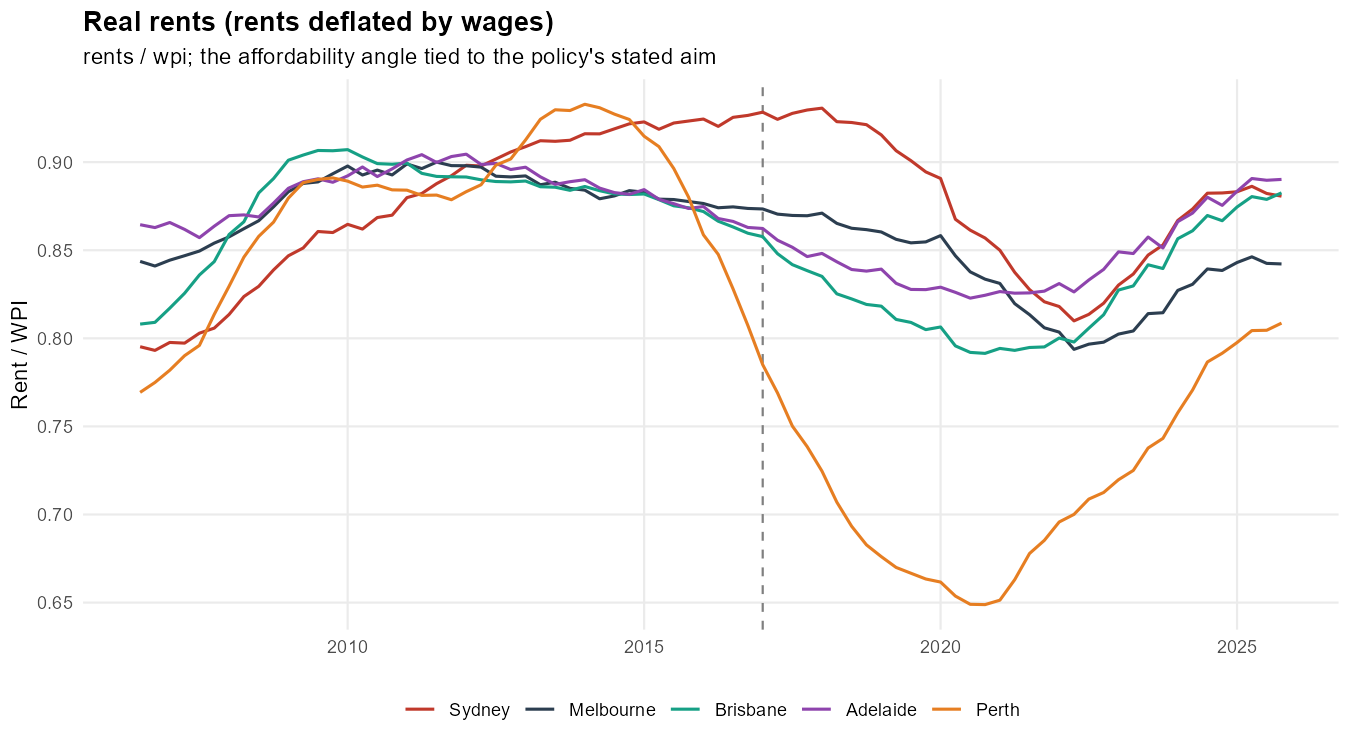
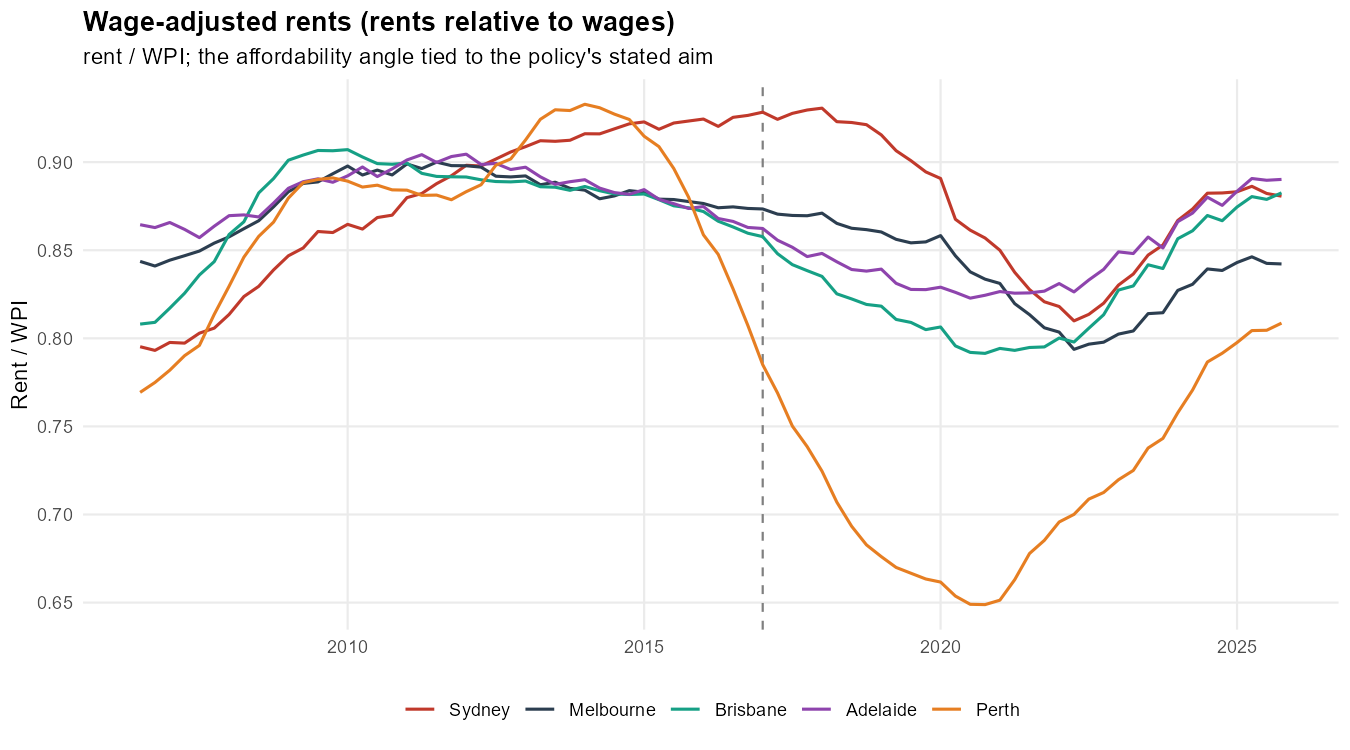
Relabel real rents as wage-adjusted: update Figure 4 title in 03_figures.R, regenerate figure, fix intro wording

Changed region(s): [[0.0622, 0.0, 0.5289, 0.092]]

diff --git a/manuscript/Rental_disconnect.tex b/manuscript/Rental_disconnect.tex
@@ -84,7 +84,7 @@
 \begin{frontmatter}
 
 \title{Credit, Fundamentals, and the Price--Rent Disconnect in
-Australian Housing Markets:
+Australian Housing Markets:\\
 Evidence from Five Capital Cities, 2006--2025}
 %\author[1]{Ainura Tursunalieva\footnote{ORCID: 0000-0003-2784-9031}}
 %\ead{[email redacted]}
@@ -129,8 +129,9 @@ gradually, with prices and rents converging over a three-year horizon.
 
 The decoupling thus reflects differences in transmission speed rather
 than permanent insulation of rents from financial conditions. The
-strengthening of the price--investor-credit channel is evident across
-all five capitals. We interpret the breakdown in the price--rent
+strengthening of the price--investor-credit channel is broad-based in
+the pooled panel rather than concentrated in the most heavily invested
+city. We interpret the breakdown in the price--rent
 relationship as evidence that the two markets are increasingly governed
 by different forces: rents by local fundamentals, prices by investor
 finance. Our contribution is to document this separation rather than to
@@ -149,7 +150,7 @@ Financialization \sep Price--rent disconnect \sep Investor credit
 \section{Introduction}
 \label{sec:introduction}
 
-Regional development theory has long emphasized the coordination of
+Regional development theory has long emphasised the coordination of
 economic growth, employment, and social equity within specific
 territorial contexts \citep{kuklinski1970regional}, assuming that
 market mechanisms would align investment with regional needs through
@@ -202,7 +203,7 @@ determination evolved over time within each market.
 
 Three features make this setting particularly relevant. First,
 Australia's negative gearing system fosters a distinctive investor
-landscape, which \citet{hulse2020everyman} characterizes as ``mum and
+landscape, which \citet{hulse2020everyman} characterises as ``mum and
 dad'' financialization, setting it apart from institutional models in
 other countries. Second, the federal structure generates multi-scalar policy
 interactions, with national monetary and tax settings intersecting
@@ -237,9 +238,8 @@ wages, and employment. A price equation relates price growth to the
 cost of capital (the cash rate) and investor mortgage demand, alongside
 the same fundamentals. We then test whether the financial driver in
 each equation changed after 2017 by interacting investor credit with a
-post-2017 indicator, and we trace the timing with a rolling-window
-decomposition of the share of variation each equation attributes to
-investor demand. The design is descriptive: each equation is a standard
+post-2017 indicator, and we trace the timing with panel local
+projections of prices and rents on an investor-credit innovation. The design is descriptive: each equation is a standard
 reduced form, and we make no claim to identify the causal effect of any
 single policy. This is deliberate. It answers the natural ``correlation,
 not causation'' objection by not overclaiming causation, and it
@@ -276,8 +276,8 @@ gradual build-up thereafter, at the slower speed of occupancy
 and supply; over a three-year horizon the two responses converge. The
 disconnect is therefore a difference in transmission speed and a
 medium-run wedge rather than a permanent insulation of rents from
-financial conditions. We further show the pattern is present across
-the five capitals and not concentrated in Sydney, the city targeted
+financial conditions. We further show the pattern is broad-based in the
+pooled panel and not concentrated in Sydney, the city targeted
 by the 2017 package, and that its sharpest movements are centred on the
 pandemic period, so we treat the 2017 reform as one marker within a
 longer structural shift rather than as its cause. A genuinely
@@ -579,9 +579,9 @@ strengthens after the break.
 
 \subsection{Empirical Specification}
 
-Building on the theoretical framework, we estimate a reduced-form
-rental price equation (Equation~\ref{eq:reduced_regional}) as an
-autoregressive distributed lag (ARDL) model for city $j$:
+Building on the theoretical framework, we write the reduced-form
+rental price relationship (Equation~\ref{eq:reduced_regional}) in an
+autoregressive distributed lag (ARDL) representation for city $j$:
 
 \begin{equation}
 \label{eq:empirical}
@@ -589,10 +589,17 @@ R_{jt} = \beta_{0j} + \alpha_{1j} R_{j,t-1} + \alpha_{2j} \text{POST}_{t}
 + \mathbf{X}_{jt}'\boldsymbol{\beta}_j + \varepsilon_{jt}
 \end{equation}
 
-Here, $R_{jt}$ denotes the rental price index in city $j$; $\text{POST}_{t}=\mathds{1}[t\geq 2017\mathrm{:}Q1]$ for all cities.
-This is a policy intervention dummy capturing city-specific housing reforms, which, for non-Sydney cities, captures the post-2017 institutional environment broadly, while in Sydney it is related to the public housing reform.
-%(equal to 1 from 2017:Q1 onward for Sydney);
- We denote  a Sydney-only NSW-reform indicator as
+This is the level representation that motivates the parsimonious
+first-difference models we actually estimate (Section~\ref{sec:methods});
+we do not estimate this level equation directly. Here $R_{jt}$ denotes
+the rental price index in city $j$, and
+$\text{POST}_{t}=\mathds{1}[t\geq 2017\mathrm{:}Q1]$ for all cities is a
+structural-break indicator, not a treatment whose causal effect we
+estimate: it marks a candidate break in the sample around which we test
+whether the determinants of prices and rents change. For non-Sydney
+cities it captures the post-2017 institutional environment broadly, while
+in Sydney it coincides with the public housing reform. We denote a
+Sydney-only NSW-reform indicator as
 $D_{jt}^{NSW}=\mathds{1}[j=\text{Sydney}]\cdot \text{POST}_{t}$ and $\mathbf{X}_{jt}$ is a
 vector of explanatory variables derived from the theoretical model.
 Specifically,
@@ -759,7 +766,8 @@ Three patterns in Table~\ref{tab:cross_city_summary} describe the
 variation in the panel. First, the post-2017 decline in the
 property--rental correlation is largest in Sydney and Melbourne and
 small or absent in the other capitals; we report this as a descriptive
-contrast, not as an identified gradient (Figure~\ref{fig:price_ts}).
+contrast, not as an identified gradient
+(Table~\ref{tab:cross_city_summary}).
 Second, migration pressures are unevenly distributed: Sydney and
 Melbourne receive large overseas inflows but experience net interstate
 outflows, consistent with affordability-driven displacement
@@ -982,7 +990,7 @@ average.
 \label{eq:price}
 \Delta p_{it} = \gamma_i + c_1\,\Delta \text{CASH}_t
  + c_2\,\Delta \iota_{it} + c_3\,\text{TIGHT}_{i,t-1}
- + c_4\,\Delta w_{it} + \eta_{it},
+ + \eta_{it},
 \end{equation}
 where $p$ is log price, $\text{CASH}$ the cash rate, and $\iota$ log
 investor mortgage commitments.
@@ -1196,8 +1204,9 @@ standard errors in parentheses. Wage growth is excluded from the price equation.
 
 The descriptive starting point is that prices pulled away from rents over the
 sample, sharply so from 2020. Figure~\ref{fig:price_rent_gap} shows the price--rent
-ratio rising in every capital, and Figure~\ref{fig:real_rent} shows real rents,
-deflated by wages, moving on a quite different path driven by local conditions
+ratio rising in every capital, and Figure~\ref{fig:real_rent} shows
+wage-adjusted rents (rents relative to the wage price index)
+moving on a quite different path driven by local conditions
 rather than by the price cycle. The question is whether this decoupling reflects
 investor credit operating on prices in a way it does not operate on rents.
 
@@ -1212,7 +1221,7 @@ index (both 2011--12 $=100$). A rising series indicates prices outrunning rents.
 \begin{figure}[t]
 \centering
 \includegraphics[width=0.8\textwidth]{fig_real_rent.png}
-\caption{Real rents, rents deflated by the state wage price index, by capital
+\caption{Wage-adjusted rents, rents relative to the state wage price index, by capital
 city. Broadly stable-to-declining until the pandemic, then recovering, with
 Perth's mining-cycle collapse and rebound the main exception.}
 \label{fig:real_rent}
@@ -1356,7 +1365,7 @@ quarter out are predetermined, and the long-horizon estimates are less precise.}
 
 The price--rent ratio rose across all five capitals from near parity in the early
 2010s, peaking between roughly $1.4$ and $2.0$, most in Sydney
-(Figure~\ref{fig:price_rent_gap}). Real rents (rents deflated by wages) were broadly
+(Figure~\ref{fig:price_rent_gap}). Wage-adjusted rents (rents relative to wages) were broadly
 stable-to-declining until the pandemic and then recovered, with Perth the notable
 exception (a sharp mining-cycle rent collapse and rebound), consistent with rents
 responding to local fundamentals (Figure~\ref{fig:real_rent}). We report the
@@ -1576,8 +1585,8 @@ rather than rents never responding.
 
 Two further checks bound the result. The strengthening of the investor
 channel is not purely a pandemic phenomenon, since a separate pandemic
-interaction adds little once a 2017 break is allowed, and it is present
-across all five capitals and not concentrated in Sydney, the city
+interaction adds little once a 2017 break is allowed, and it is
+broad-based in the pooled panel rather than concentrated in Sydney, the city
 targeted by the 2017 NSW package; if anything it is weaker there. The
 change is therefore better understood as a general shift in how
 Australian dwelling prices are determined than as the effect of any